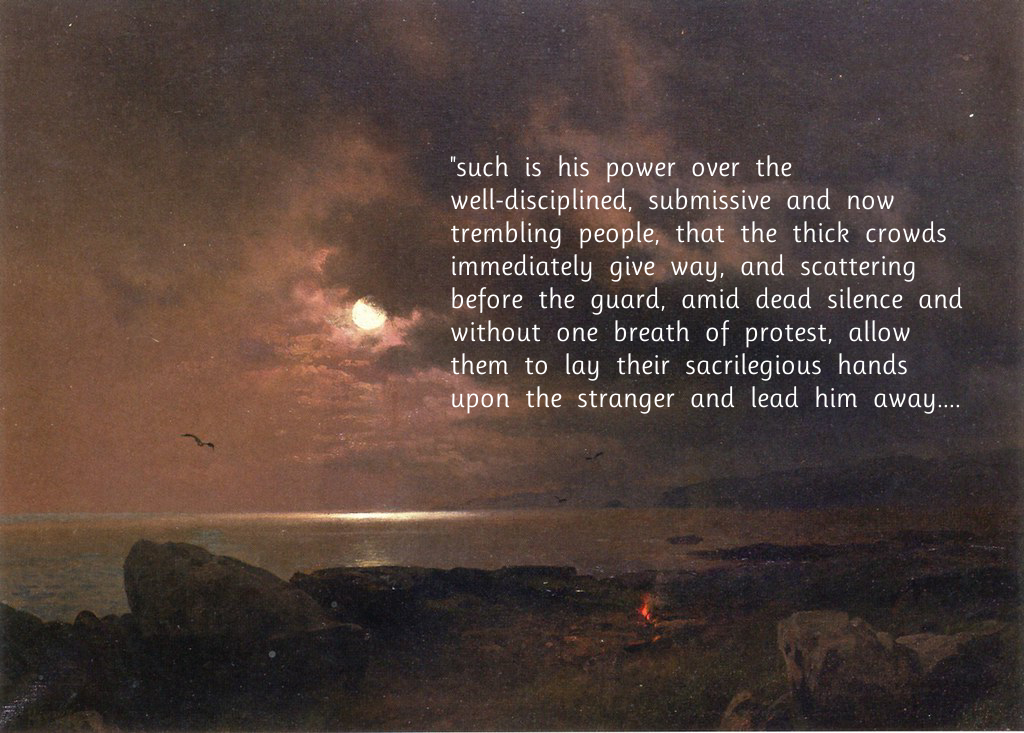
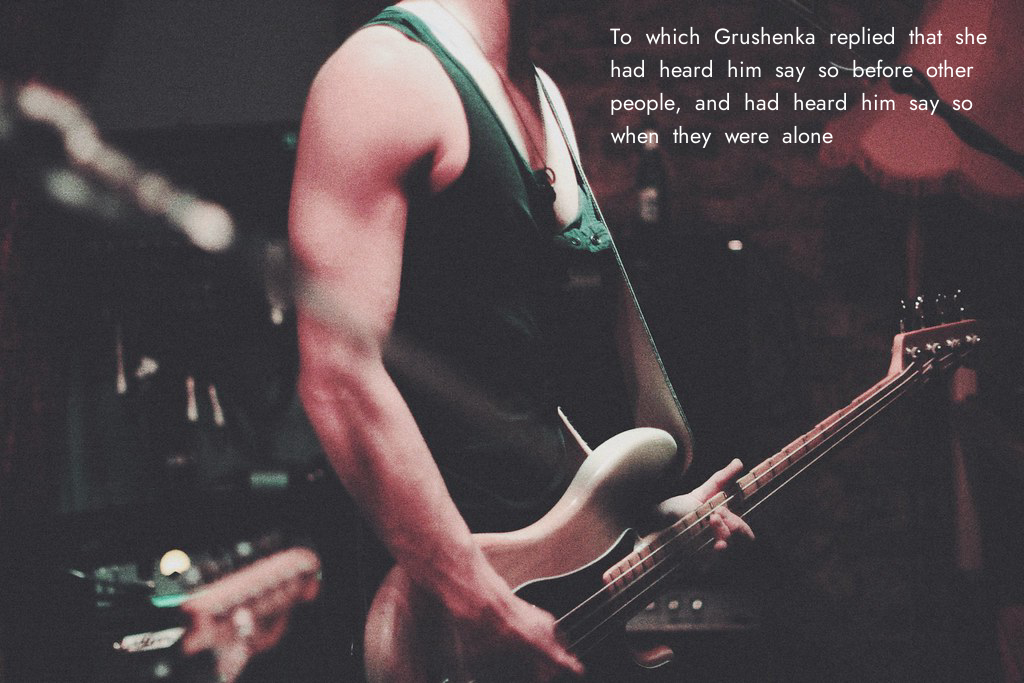
tweaking sentencing cleaning, adjust some backgrodunds

diff --git a/src/getRandomSentence.ts b/src/getRandomSentence.ts
@@ -16,18 +16,22 @@ export async function getRandomSentence() {
     tokenizer.sentences(line, { sanitize: true })
   )
 
-  return dedent(sentence.toLowerCase().replace(/\n/g, '').replace(/\s\s/g, ' '))
+  return sentence
 }
 
-function removeNastyCharacters(sentence: string) {
-  return sentence
-    .trim()
-    .replace(/“|”/g, '"')
-    .replace(/’|‘|’/g, "'")
-    .replace(/…/g, '...')
-    .replace(/—/g, ' - ')
-    .replace(/ï/g, 'i')
-    .replace(/ü/g, 'u')
+function cleanSentence(sentence: string) {
+  return dedent(
+    sentence
+      .trim()
+      .replace(/\n/g, '')
+      .replace(/\s\s/g, ' ')
+      .replace(/“|”/g, '"')
+      .replace(/’|‘|’/g, "'")
+      .replace(/…/g, '...')
+      .replace(/—/g, ' - ')
+      .replace(/ï/g, 'i')
+      .replace(/ü/g, 'u')
+  )
 }
 
 function getSentencesWithLength(sentences: string[], length = 280) {
@@ -35,12 +39,12 @@ function getSentencesWithLength(sentences: string[], length = 280) {
 
   const randomSentences = sentences.slice(getRandomInt(sentences.length - 1))
   for (let s of randomSentences) {
-    const cleanedSentence = removeNastyCharacters(s)
+    const cleanedSentence = cleanSentence(s)
     const newLength = sentence.length + cleanedSentence.length + 1
     if (!sentence.length) {
-      sentence = s
+      sentence = cleanedSentence
     } else if (sentence.length < length && newLength < length) {
-      sentence = `${sentence} ${s}`
+      sentence = `${sentence} ${cleanedSentence}`
     } else {
       break
     }

diff --git a/src/instagram/backgroundConfig.ts b/src/instagram/backgroundConfig.ts
@@ -20,12 +20,12 @@ export const defaultConfig: BackgroundConfig = {
 
 export const backgroundConfig: Record<string, BackgroundConfig> = {
   'bass.jpg': {
-    fontFile: fonts.jost.white18,
+    fontFile: fonts.jost.white22,
     textPlacement: {
-      x: 20,
-      y: 50,
+      x: 610,
+      y: 20,
     },
-    maxWidth: 200,
+    maxWidth: 320,
   },
   'bonfire.jpg': {
     fontFile: fonts.ruluko.white,

diff --git a/src/instagram/font/index.ts b/src/instagram/font/index.ts
@@ -26,4 +26,5 @@ export const jost = {
   white18: 'fontFiles/jost/white-18.fnt',
   black18: 'fontFiles/jost/black-18.fnt',
   black24: 'fontFiles/jost/black-24.fnt',
+  white22: 'fontFiles/jost/white-22.fnt',
 }
